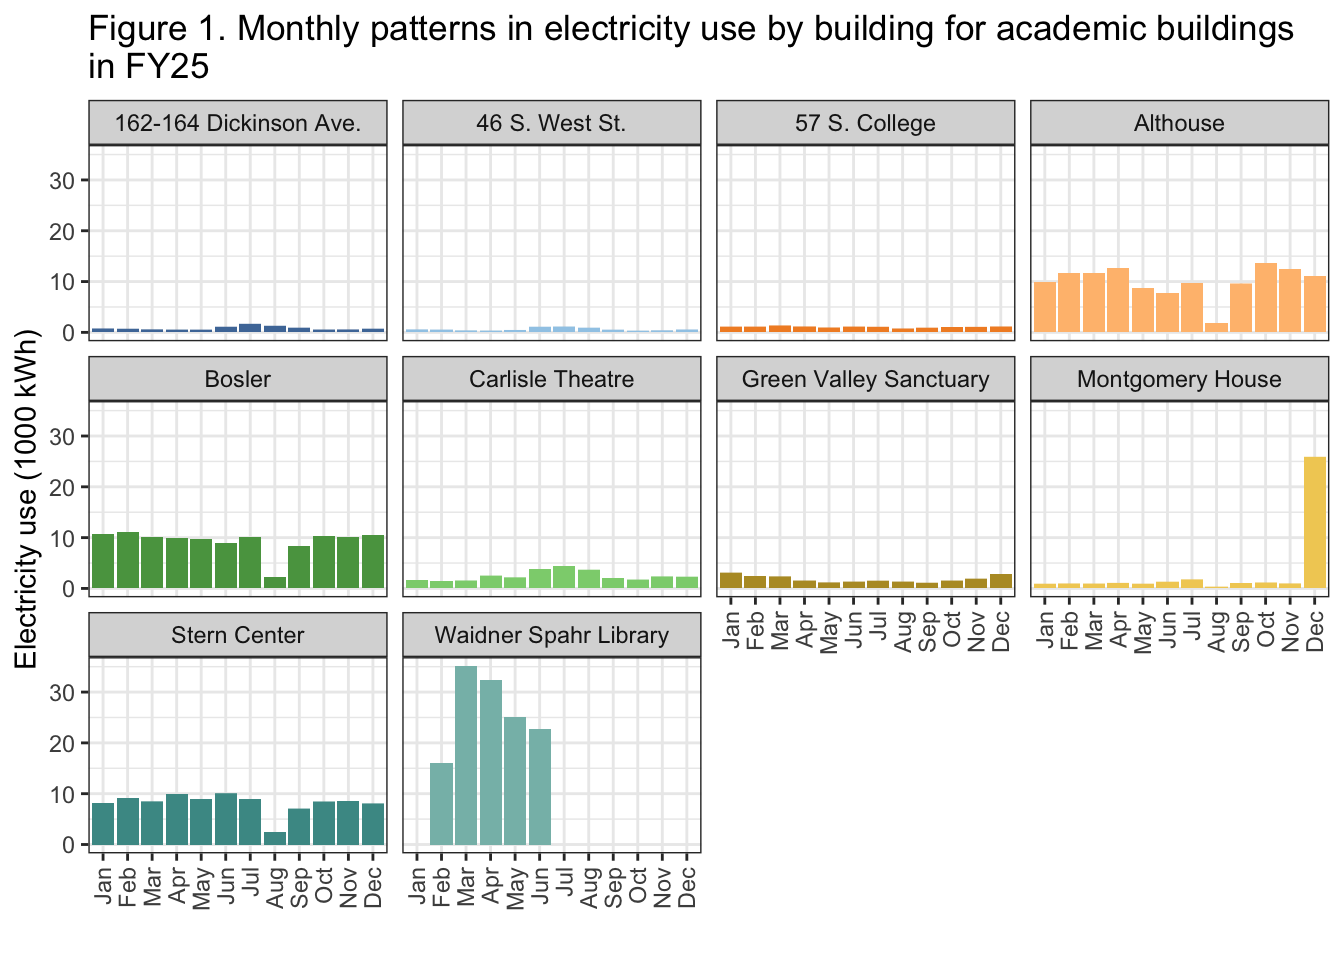
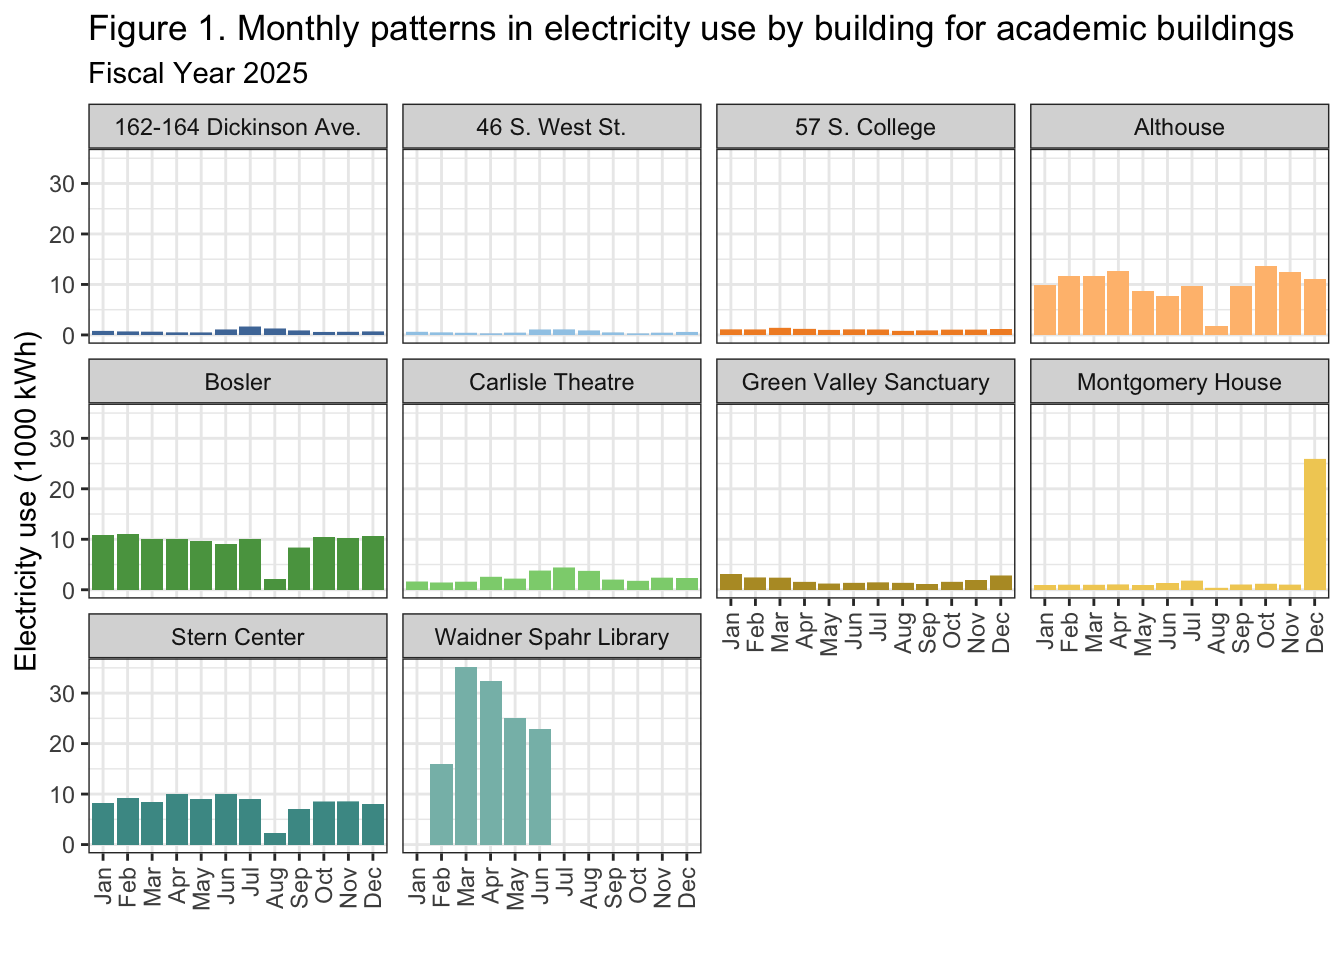
minor updates

diff --git a/docs/Report_I_Residential-L.html b/docs/Report_I_Residential-L.html
@@ -589,15 +589,15 @@ project makes it easier to run your code on other machines.</p>
 <div class="panel panel-default">
 <div class="panel-heading">
 <p class="panel-title">
-<a data-toggle="collapse" data-parent="#workflowr-checks" href="#strongRepositoryversionstrongahrefhttpsgithubcommaggiedouglasdickinsonpowertreec805a4adf073cc9fe74af5a06521be99bcedde43targetblankc805a4aa">
+<a data-toggle="collapse" data-parent="#workflowr-checks" href="#strongRepositoryversionstrongahrefhttpsgithubcommaggiedouglasdickinsonpowertreec7acfc602c46a988176b2b3110cb39208bd83a93targetblankc7acfc6a">
 <span class="glyphicon glyphicon-ok text-success"
 aria-hidden="true"></span> <strong>Repository version:</strong>
-<a href="https://github.com/maggiedouglas/dickinson_power/tree/c805a4adf073cc9fe74af5a06521be99bcedde43" target="_blank">c805a4a</a>
+<a href="https://github.com/maggiedouglas/dickinson_power/tree/c7acfc602c46a988176b2b3110cb39208bd83a93" target="_blank">c7acfc6</a>
 </a>
 </p>
 </div>
 <div
[2 lines of base64/hex data omitted]
 class="panel-collapse collapse">
 <div class="panel-body">
 <p>
@@ -607,7 +607,7 @@ reproducibility.
 </p>
 <p>
 The results in this page were generated with repository version
-<a href="https://github.com/maggiedouglas/dickinson_power/tree/c805a4adf073cc9fe74af5a06521be99bcedde43" target="_blank">c805a4a</a>.
+<a href="https://github.com/maggiedouglas/dickinson_power/tree/c7acfc602c46a988176b2b3110cb39208bd83a93" target="_blank">c7acfc6</a>.
 See the <em>Past versions</em> tab to see a history of the changes made
 to the R Markdown and HTML files.
 </p>
@@ -679,6 +679,7 @@ Ignored files:
     Ignored:    output/kwh_main_daily.csv
 
 Unstaged changes:
+    Modified:   analysis/Report_I_Academic.Rmd
     Modified:   analysis/Report_I_Residential-L.Rmd
 
 </code></pre>
@@ -725,6 +726,40 @@ Message
 </tr>
 </thead>
 <tbody>
+<tr>
+<td>
+Rmd
+</td>
+<td>
+<a href="https://github.com/maggiedouglas/dickinson_power/blob/c7acfc602c46a988176b2b3110cb39208bd83a93/analysis/Report_I_Residential-L.Rmd" target="_blank">c7acfc6</a>
+</td>
+<td>
+maggiedouglas
+</td>
+<td>
+2026-04-25
+</td>
+<td>
+large res hall update
+</td>
+</tr>
+<tr>
+<td>
+html
+</td>
+<td>
+<a href="https://rawcdn.githack.com/maggiedouglas/dickinson_power/c7acfc602c46a988176b2b3110cb39208bd83a93/docs/Report_I_Residential-L.html" target="_blank">c7acfc6</a>
+</td>
+<td>
+maggiedouglas
+</td>
+<td>
+2026-04-25
+</td>
+<td>
+large res hall update
+</td>
+</tr>
 <tr>
 <td>
 Rmd
@@ -1077,7 +1112,7 @@ August due to missing data from this time period.</p>
        y = &quot;Electricity use (1000 kWh)&quot;,
        title = &quot;Figure 1. Monthly patterns in electricity use by building for large residential halls&quot;,
        subtitle = &quot;Fiscal Year 2025&quot;)</code></pre>
-<p><img src="figure/Report_I_Residential-L.Rmd/fig1-1.png" alt="" width="672" style="display: block; margin: auto;" /></p>
+<p><img src="figure/Report_I_Residential-L.Rmd/fig1-1.png" alt="" width="864" style="display: block; margin: auto;" /></p>
 <p>
 <button type="button" class="btn btn-default btn-xs btn-workflowr btn-workflowr-fig" data-toggle="collapse" data-target="#fig-fig1-1">
 Past versions of fig1-1.png
@@ -1189,7 +1224,8 @@ regularly had a median above the median of these typical buildings.</p>
   scale_fill_paletteer_d(&quot;ggthemes::Tableau_20&quot;) +
   labs(x = &quot;&quot;,
        y = &quot;Electricity Intensity (kWh/sqft/year)&quot;,
-       title = &quot;Figure 2. Electricity intensity by building for large residence buildings in FY25&quot;,
+       title = &quot;Figure 2. Electricity intensity by building for large residence buildings&quot;,
+       subtitle = &quot;Fiscal Year 2025&quot;,
        caption = &quot;White dotted line and gray shaded area show median and 25th to 75th percentile \nof typical values in U.S. College and University dormitories (EIA 2022)&quot;) +
   coord_flip()</code></pre>
 <p><img src="figure/Report_I_Residential-L.Rmd/fig2-1.png" alt="" width="864" style="display: block; margin: auto;" /></p>
@@ -1215,6 +1251,17 @@ Date
 </tr>
 </thead>
 <tbody>
+<tr>
+<td>
+<a href="https://github.com/maggiedouglas/dickinson_power/blob/c7acfc602c46a988176b2b3110cb39208bd83a93/docs/figure/Report_I_Residential-L.Rmd/fig2-1.png" target="_blank">c7acfc6</a>
+</td>
+<td>
+maggiedouglas
+</td>
+<td>
+2026-04-25
+</td>
+</tr>
 <tr>
 <td>
 <a href="https://github.com/maggiedouglas/dickinson_power/blob/c805a4adf073cc9fe74af5a06521be99bcedde43/docs/figure/Report_I_Residential-L.Rmd/fig2-1.png" target="_blank">c805a4a</a>

diff --git a/docs/Report_I_Academic.html b/docs/Report_I_Academic.html
@@ -589,15 +589,15 @@ project makes it easier to run your code on other machines.</p>
 <div class="panel panel-default">
 <div class="panel-heading">
 <p class="panel-title">
-<a data-toggle="collapse" data-parent="#workflowr-checks" href="#strongRepositoryversionstrongahrefhttpsgithubcommaggiedouglasdickinsonpowertreed34161b8d717b41f39a7b35fa9bbbfff7334d6d6targetblankd34161ba">
+<a data-toggle="collapse" data-parent="#workflowr-checks" href="#strongRepositoryversionstrongahrefhttpsgithubcommaggiedouglasdickinsonpowertreec7acfc602c46a988176b2b3110cb39208bd83a93targetblankc7acfc6a">
 <span class="glyphicon glyphicon-ok text-success"
 aria-hidden="true"></span> <strong>Repository version:</strong>
-<a href="https://github.com/maggiedouglas/dickinson_power/tree/d34161b8d717b41f39a7b35fa9bbbfff7334d6d6" target="_blank">d34161b</a>
+<a href="https://github.com/maggiedouglas/dickinson_power/tree/c7acfc602c46a988176b2b3110cb39208bd83a93" target="_blank">c7acfc6</a>
 </a>
 </p>
 </div>
 <div
[2 lines of base64/hex data omitted]
 class="panel-collapse collapse">
 <div class="panel-body">
 <p>
@@ -607,7 +607,7 @@ reproducibility.
 </p>
 <p>
 The results in this page were generated with repository version
-<a href="https://github.com/maggiedouglas/dickinson_power/tree/d34161b8d717b41f39a7b35fa9bbbfff7334d6d6" target="_blank">d34161b</a>.
+<a href="https://github.com/maggiedouglas/dickinson_power/tree/c7acfc602c46a988176b2b3110cb39208bd83a93" target="_blank">c7acfc6</a>.
 See the <em>Past versions</em> tab to see a history of the changes made
 to the R Markdown and HTML files.
 </p>
@@ -678,11 +678,9 @@ Ignored files:
     Ignored:    output/kwh_main_annual.csv
     Ignored:    output/kwh_main_daily.csv
 
-Untracked files:
-    Untracked:  analysis/Report_I_Residential-L.Rmd
-
 Unstaged changes:
     Modified:   analysis/Report_I_Academic.Rmd
+    Modified:   analysis/Report_I_Residential-L.Rmd
 
 </code></pre>
 <p>
@@ -727,6 +725,40 @@ Message
 </tr>
 </thead>
 <tbody>
+<tr>
+<td>
+Rmd
+</td>
+<td>
+<a href="https://github.com/maggiedouglas/dickinson_power/blob/755150174efba482b31328f804eb2165e31d5561/analysis/Report_I_Academic.Rmd" target="_blank">7551501</a>
+</td>
+<td>
+maggiedouglas
+</td>
+<td>
+2026-04-25
+</td>
+<td>
+Update large res hall Part 1
+</td>
+</tr>
+<tr>
+<td>
+html
+</td>
+<td>
+<a href="https://rawcdn.githack.com/maggiedouglas/dickinson_power/755150174efba482b31328f804eb2165e31d5561/docs/Report_I_Academic.html" target="_blank">7551501</a>
+</td>
+<td>
+maggiedouglas
+</td>
+<td>
+2026-04-25
+</td>
+<td>
+Update large res hall Part 1
+</td>
+</tr>
 <tr>
 <td>
 Rmd
@@ -979,7 +1011,8 @@ submeter data.</p>
   theme(legend.position = &quot;none&quot;) + 
   labs(x = &quot;&quot;,
        y = &quot;Electricity use (1000 kWh)&quot;,
-      title = &quot;Figure 1. Monthly patterns in electricity use by building for academic buildings \nin FY25&quot;)</code></pre>
+      title = &quot;Figure 1. Monthly patterns in electricity use by building for academic buildings&quot;,
+      subtitle = &quot;Fiscal Year 2025&quot;,)</code></pre>
 <p><img src="figure/Report_I_Academic.Rmd/figure1-1.png" alt="" width="672" style="display: block; margin: auto;" /></p>
 <p>
 <button type="button" class="btn btn-default btn-xs btn-workflowr btn-workflowr-fig" data-toggle="collapse" data-target="#fig-figure1-1">
@@ -1068,7 +1101,8 @@ all buildings.</p>
   scale_fill_paletteer_d(&quot;ggthemes::Tableau_20&quot;) +
   labs(x = &quot;&quot;, 
        y = &quot;Electricity Intensity (kWh/sqft/year)&quot;, 
-       title = &quot;Figure 2. Electricity intensity by building for academic buildings \nin FY25&quot;,
+       title = &quot;Figure 2. Electricity intensity by building for academic buildings&quot;,
+       subtitle = &quot;Fiscal Year 2025&quot;,
       caption = &quot;White dotted line and gray shaded area show median and 25th to 75th percentile \nof typical values in U.S. College and University buildings (EIA 2022)&quot;) +
   ylim(0,30) # Montogomery House as an outlier of 800</code></pre>
 <p><img src="figure/Report_I_Academic.Rmd/figure2-1.png" alt="" width="672" style="display: block; margin: auto;" /></p>
